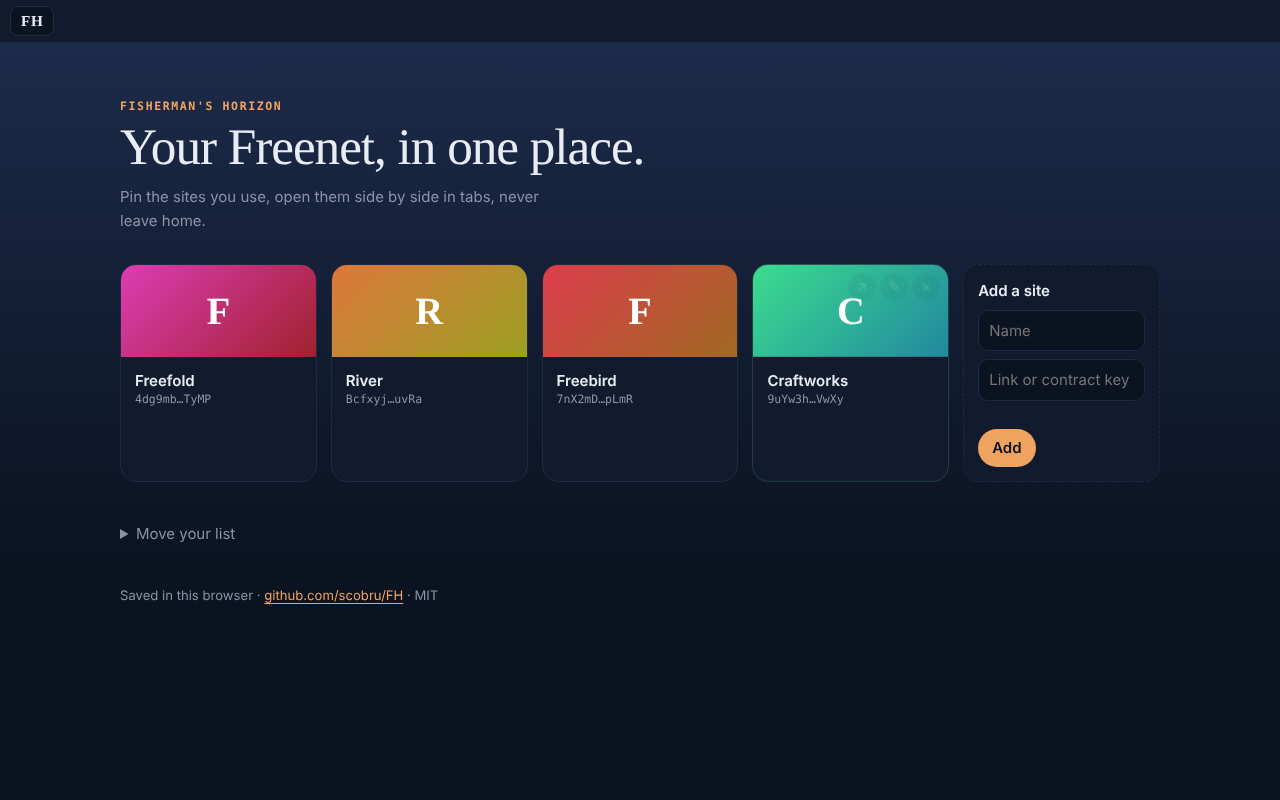
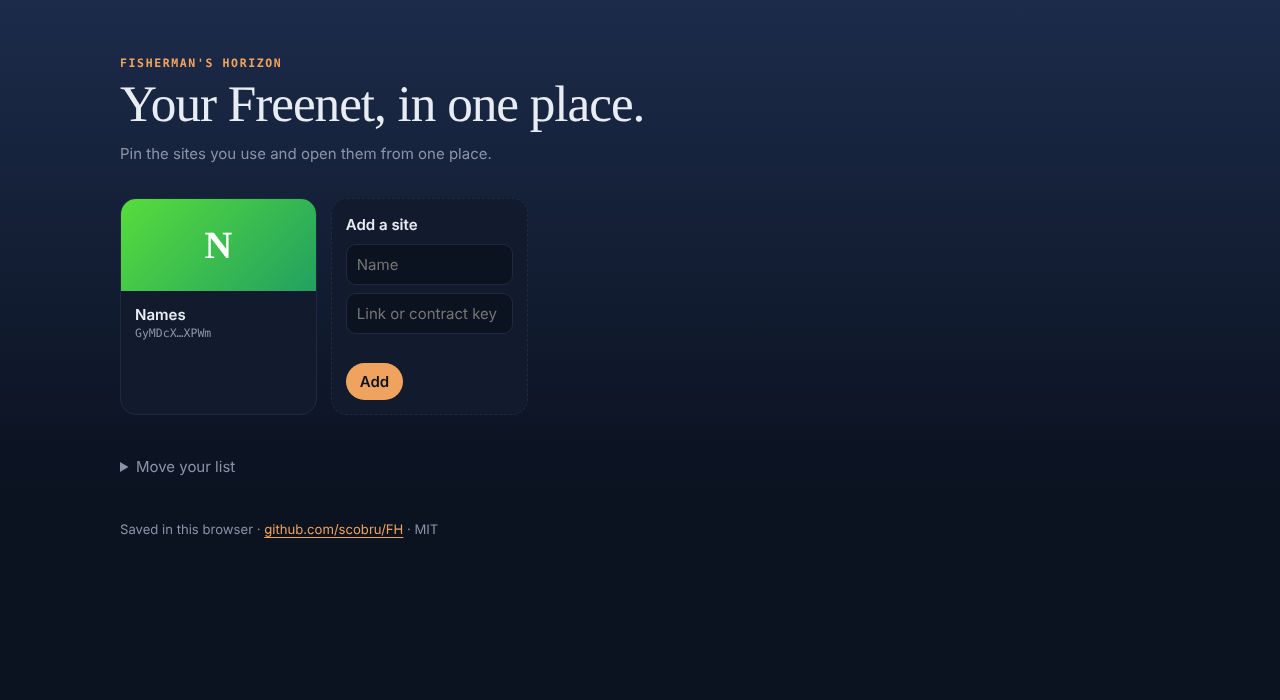
Open sites in a new tab instead of in-app iframes
The node serves every app shell with X-Frame-Options: DENY (the shell
holds the app's identity token), so a framed site showed a broken page.
Tiles are now links with target=_blank: the popup escapes FH's sandbox
and the node wraps the site in its own shell. README explains why.

Claude-Session: https://claude.ai/code/session_01GeVad92M4SuANuLQjHu8xK

diff --git a/src/main.ts b/src/main.ts
@@ -2,74 +2,35 @@ import "./style.css";
 import { nodeBase, persistence, storeGet, storePut } from "./store";
 import { hue, parseLink, parseSites, type Site } from "./sites";
 
-const tabs = document.getElementById("tabs")!, home = document.getElementById("home")!, frames = document.getElementById("frames")!;
+const home = document.getElementById("home")!;
 const esc = (s: string) => s.replace(/[&<>"']/g, (c) => `&#${c.charCodeAt(0)};`);
 const urlOf = (s: Site) => `${nodeBase}/v1/contract/web/${s.key}/${s.hash}`;
 
 let sites: Site[] = [];
-let open: string[] = []; // keys of the sites open in tabs, in tab order
-let active = ""; // "" = home
 let editing: string | null = null; // key of the site in the form, null = adding
 let where = "";
 
 const save = () => storePut("sites", JSON.stringify(sites));
 
-// Leave FH for the site itself. Inside the Freenet container, the shell does the navigation.
-const goTo = (href: string) => (window.parent !== window ? parent.postMessage({ __freenet_shell__: true, type: "navigate", href }, "*") : void (location.href = href));
-
-function show(key: string) {
-  if (key && !open.includes(key)) {
-    open.push(key);
-    const s = sites.find((x) => x.key === key)!;
-    const f = document.createElement("iframe");
-    f.dataset.key = key;
-    f.title = s.name;
-    f.src = urlOf(s);
-    // never allow-same-origin: sites must not reach FH or each other (in the container this frame is sandboxed anyway)
-    f.setAttribute("sandbox", "allow-scripts allow-forms allow-popups allow-popups-to-escape-sandbox allow-downloads allow-modals");
-    f.allow = "clipboard-write";
-    frames.append(f);
-  }
-  active = key;
-  frames.querySelectorAll("iframe").forEach((f) => (f.hidden = f.dataset.key !== key));
-  home.hidden = !!key;
-  frames.hidden = !key;
-  drawTabs();
-}
-
-function close(key: string) {
-  open = open.filter((k) => k !== key);
-  frames.querySelector(`iframe[data-key="${key}"]`)?.remove();
-  if (active === key) show(open.at(-1) ?? "");
-  else drawTabs();
-}
-
-function drawTabs() {
-  const name = (k: string) => sites.find((s) => s.key === k)?.name ?? k.slice(0, 8);
-  tabs.innerHTML = `<button class="tab brand${active ? "" : " on"}" data-show="">FH</button>` +
-    open.map((k) => `<span class="tab${active === k ? " on" : ""}" style="--h:${hue(k)}">` +
-      `<button data-show="${k}">${esc(name(k))}</button><button class="x" data-close="${k}" aria-label="Close ${esc(name(k))}">&times;</button></span>`).join("") +
-    (active ? `<button class="tab out" data-full="${active}" title="Open this site on its own">&#8599;</button>` : "");
-}
-
+// Sites open in a new tab: the node refuses to have its app shells framed (X-Frame-Options: DENY, the shell
+// holds the app's identity token), and a popup escapes FH's sandbox, so the node wraps the site in its own shell.
 function drawHome() {
   const e = editing ? sites.find((s) => s.key === editing) : undefined;
   home.innerHTML = `
     <header>
       <p class="kicker">Fisherman's Horizon</p>
       <h1>Your Freenet, in one place.</h1>
-      <p class="lede">Pin the sites you use, open them side by side in tabs, never leave home.</p>
+      <p class="lede">Pin the sites you use and open them from one place.</p>
     </header>
     <section class="grid">
       ${sites.map((s) => `
         <article class="tile" style="--h:${hue(s.key)}">
-          <button class="face" data-show="${s.key}" aria-label="Open ${esc(s.name)}">
+          <a class="face" href="${esc(urlOf(s))}" target="_blank" rel="noopener noreferrer">
             <span class="glyph">${esc([...s.name][0]?.toUpperCase() ?? "?")}</span>
             <span class="name">${esc(s.name)}</span>
             <span class="key">${s.key.slice(0, 6)}…${s.key.slice(-4)}${esc(s.hash)}</span>
-          </button>
+          </a>
           <div class="acts">
-            <button data-full="${s.key}" title="Open on its own">&#8599;</button>
             <button data-edit="${s.key}" title="Edit">&#9998;</button>
             <button data-del="${s.key}" title="Remove">&times;</button>
           </div>
@@ -102,42 +63,35 @@ function drawHome() {
     if (link.key !== editing && sites.some((s) => s.key === link.key)) return void (err.textContent = "Already on your list.");
     const site = { name: String(f.get("name")).trim().slice(0, 60) || link.key.slice(0, 8), ...link };
     if (editing) {
-      if (link.key !== editing) close(editing);
       sites = sites.map((s) => (s.key === editing ? site : s));
     } else sites.push(site);
     editing = null;
-    drawHome(); drawTabs();
+    drawHome();
     await save();
   };
   home.querySelector<HTMLButtonElement>("#cancel")?.addEventListener("click", () => { editing = null; drawHome(); });
   home.querySelector<HTMLButtonElement>("#import")!.onclick = async () => {
     const next = parseSites(home.querySelector<HTMLTextAreaElement>("#json")!.value);
     if (!next.length) return;
-    [...open].forEach(close);
     sites = next;
     drawHome();
     await save();
   };
 }
 
-// one delegated click handler for tabs and tiles
+// one delegated click handler for the tiles' buttons
 document.addEventListener("click", async (ev) => {
-  const b = (ev.target as HTMLElement).closest<HTMLElement>("[data-show],[data-close],[data-full],[data-edit],[data-del]");
+  const b = (ev.target as HTMLElement).closest<HTMLElement>("[data-edit],[data-del]");
   if (!b) return;
   const d = b.dataset;
-  if (d.show !== undefined) show(d.show);
-  else if (d.close) close(d.close);
-  else if (d.full) goTo(urlOf(sites.find((s) => s.key === d.full)!));
-  else if (d.edit) { editing = d.edit; drawHome(); home.querySelector<HTMLInputElement>("input[name=name]")?.focus(); }
+  if (d.edit) { editing = d.edit; drawHome(); home.querySelector<HTMLInputElement>("input[name=name]")?.focus(); }
   else if (d.del) {
-    close(d.del);
     sites = sites.filter((s) => s.key !== d.del);
     drawHome();
     await save();
   }
 });
 
-drawTabs();
 home.innerHTML = `<p class="muted loading">Loading your sites…</p>`;
 sites = parseSites(await storeGet("sites"));
 where = { node: "Saved on your Freenet node", browser: "Saved in this browser", session: "Not saved: lost on reload" }[await persistence()];

diff --git a/src/style.css b/src/style.css
@@ -12,34 +12,15 @@
   }
 }
 * { box-sizing: border-box; }
-html, body { height: 100%; }
-body { margin: 0; display: flex; flex-direction: column; background: var(--bg); color: var(--fg); font: 15px/1.55 system-ui, sans-serif; -webkit-font-smoothing: antialiased; }
+body { margin: 0; min-height: 100vh; background: var(--bg); color: var(--fg); font: 15px/1.55 system-ui, sans-serif; -webkit-font-smoothing: antialiased; }
 a { color: var(--accent); text-underline-offset: 3px; }
 button, input, textarea { font: inherit; color: inherit; }
 button { cursor: pointer; background: none; border: 0; padding: 0; }
 :focus-visible { outline: 2px solid var(--accent); outline-offset: 2px; }
-[hidden] { display: none !important; }
 .muted { color: var(--muted); }
 
-/* tabs */
-#tabs { display: flex; gap: 4px; align-items: center; padding: 6px 10px; border-bottom: 1px solid var(--line); overflow-x: auto; flex: none; background: var(--card); }
-.tab { display: inline-flex; align-items: center; gap: 2px; padding: 5px 10px; border-radius: 8px; white-space: nowrap; color: var(--muted); border: 1px solid transparent; }
-.tab button { padding: 0 2px; }
-.tab::before { content: ""; width: 8px; height: 8px; margin-right: 6px; border-radius: 50%; background: hsl(var(--h) 65% 55%); }
-.tab.brand::before, .tab.out::before { display: none; }
-.tab.brand { font: 700 .95rem var(--serif); letter-spacing: .04em; color: var(--accent); }
-.tab.on { color: var(--fg); background: var(--bg); border-color: var(--line); }
-.tab:hover { color: var(--fg); }
-.tab .x { opacity: .5; margin-left: 4px; }
-.tab .x:hover { opacity: 1; }
-.tab.out { margin-left: auto; }
-
-/* frames */
-#frames { flex: 1; display: flex; }
-#frames iframe { flex: 1; border: 0; width: 100%; background: var(--bg); }
-
 /* home */
-#home { flex: 1; overflow-y: auto; background: var(--sky) no-repeat; padding: 0 16px 48px; }
+#home { min-height: 100vh; background: var(--sky) no-repeat; padding: 0 16px 48px; }
 #home > * { max-width: 1040px; margin-left: auto; margin-right: auto; }
 header { padding: 56px 0 32px; }
 .kicker { margin: 0; font: 600 .72rem var(--mono); letter-spacing: .14em; text-transform: uppercase; color: var(--accent); }
@@ -50,7 +31,7 @@ h1 { font: 500 clamp(2rem, 5vw, 3.2rem)/1.1 var(--serif); letter-spacing: -.02em
 .grid { display: grid; grid-template-columns: repeat(auto-fill, minmax(190px, 1fr)); gap: 14px; }
 .tile { position: relative; background: var(--card); border: 1px solid var(--line); border-radius: 16px; overflow: hidden; transition: transform .15s, border-color .15s, box-shadow .15s; }
 .tile:not(.add):hover { transform: translateY(-2px); border-color: hsl(var(--h) 60% 55%); box-shadow: 0 10px 30px -14px hsl(var(--h) 70% 50% / .6); }
-.face { display: flex; flex-direction: column; width: 100%; text-align: left; padding: 0 0 14px; }
+.face { display: flex; color: inherit; text-decoration: none; flex-direction: column; width: 100%; text-align: left; padding: 0 0 14px; }
 .glyph { display: grid; place-items: center; height: 92px; margin-bottom: 12px; font: 600 2.4rem var(--serif); color: #fff;
   background: linear-gradient(135deg, hsl(var(--h) 70% 55%), hsl(calc(var(--h) + 40) 65% 38%)); }
 .name { padding: 0 14px; font-weight: 600; overflow: hidden; text-overflow: ellipsis; white-space: nowrap; }

diff --git a/index.html b/index.html
@@ -6,9 +6,7 @@
   <title>FH</title>
 </head>
 <body>
-  <nav id="tabs" aria-label="Open sites"></nav>
   <main id="home"></main>
-  <div id="frames" hidden></div>
   <script type="module" src="./src/main.ts"></script>
 </body>
 </html>

diff --git a/README.md b/README.md
@@ -1,6 +1,6 @@
 # FH
 
-**Fisherman's Horizon**: a home page for [Freenet](https://freenet.org). Pin the Freenet sites you use, see them as tiles, and open them in tabs inside FH without leaving it.
+**Fisherman's Horizon**: a home page for [Freenet](https://freenet.org). Pin the Freenet sites you use, see them as tiles, open them from one place.
 
 Named after the town on the bridge in Final Fantasy VIII: built from recycled parts, no army, everyone welcome.
 
@@ -8,8 +8,7 @@ Named after the town on the bridge in Final Fantasy VIII: built from recycled pa
 
 ## What it does
 
-- **Tiles.** Add a site by pasting its link (`http://<node>/v1/contract/web/<key>/`, from any node, with or without an in-app `#route`) or its bare contract key. Edit, remove, open.
-- **Tabs.** A tile opens the site in a tab inside FH. Open tabs stay loaded, so switching back keeps where you were. `↗` opens the site on its own.
+- **Tiles.** Add a site by pasting its link (`http://<node>/v1/contract/web/<key>/`, from any node, with or without an in-app `#route`) or its bare contract key. Edit, remove. A tile opens the site in a new browser tab.
 - **Saved on your node.** The list lives in the node, so it survives reloads inside the sandboxed Freenet container (where pages have no storage). Under `npm run dev` it falls back to `localStorage`. The footer says where it is saved.
 - **Move your list.** Copy the JSON to another node and import it there.
 
@@ -17,11 +16,11 @@ Named after the town on the bridge in Final Fantasy VIII: built from recycled pa
 
 - UI: TypeScript + Vite, no framework. One page, `src/main.ts`.
 - Storage: FreePolls' identity delegate (`src/identity.wasm`, the same build as [`scobru/freepolls`](https://github.com/scobru/freepolls) `delegate/`). It keeps a small key/value store per calling web app, namespaced by the app's contract id as attested by the node, so other apps cannot read FH's list. FH only uses `get` / `put` of the key `sites`, never the signing key.
-- Tabs: each site is an `<iframe>` on the node's own `/v1/contract/web/<key>/`, sandboxed **without** `allow-same-origin`: a site must not be able to reach FH or another site. Inside the Freenet container FH is itself sandboxed, and that sandbox applies to the tabs too.
+- Why not tabs inside FH: the node serves every app shell with `X-Frame-Options: DENY` (freenet-core `server/client_api.rs`), on purpose: the shell holds the app's identity token, so framing it would allow clickjacking. Framing the app's inner `?__sandbox=1` page instead would make FH proxy its socket under FH's own token, so every site would run as FH. A new tab escapes FH's sandbox and the node wraps the site in its own shell.
 
 ## Limitations
 
-- **Tabs need testing on a real node.** Each tab loads the node's shell for that site inside FH's own sandboxed frame. If a site (or the node's shell) needs things a nested sandbox does not give (storage, top-level navigation, a same-origin token), it can fail in a tab: use `↗` to open it on its own.
+- No in-app tabs (see above). That needs a change in freenet-core, for example a shell that a trusted launcher may frame.
 - The list belongs to the node, not to you: a different node starts empty (use *Move your list*). Freenet does not sync delegates across devices yet.
 - No unread badges or previews yet: FH does not read the sites' contracts.
 
